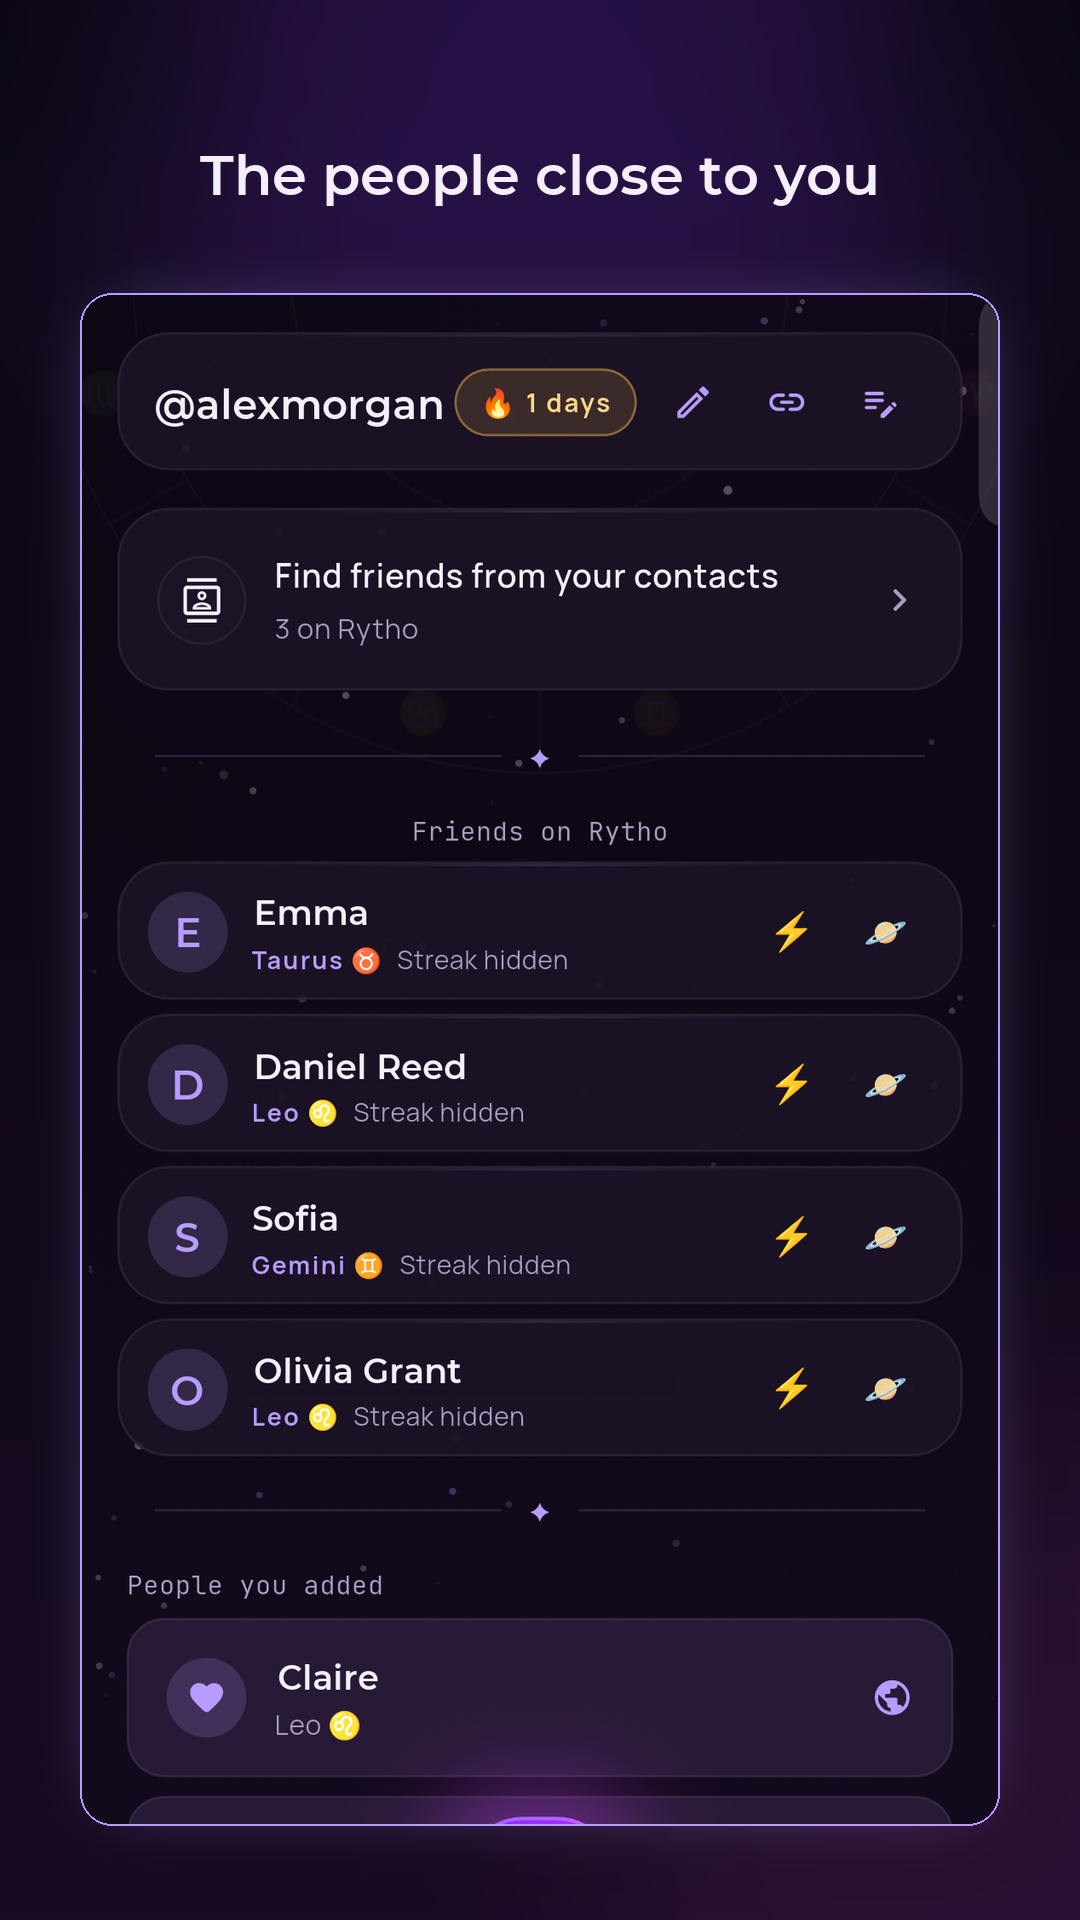
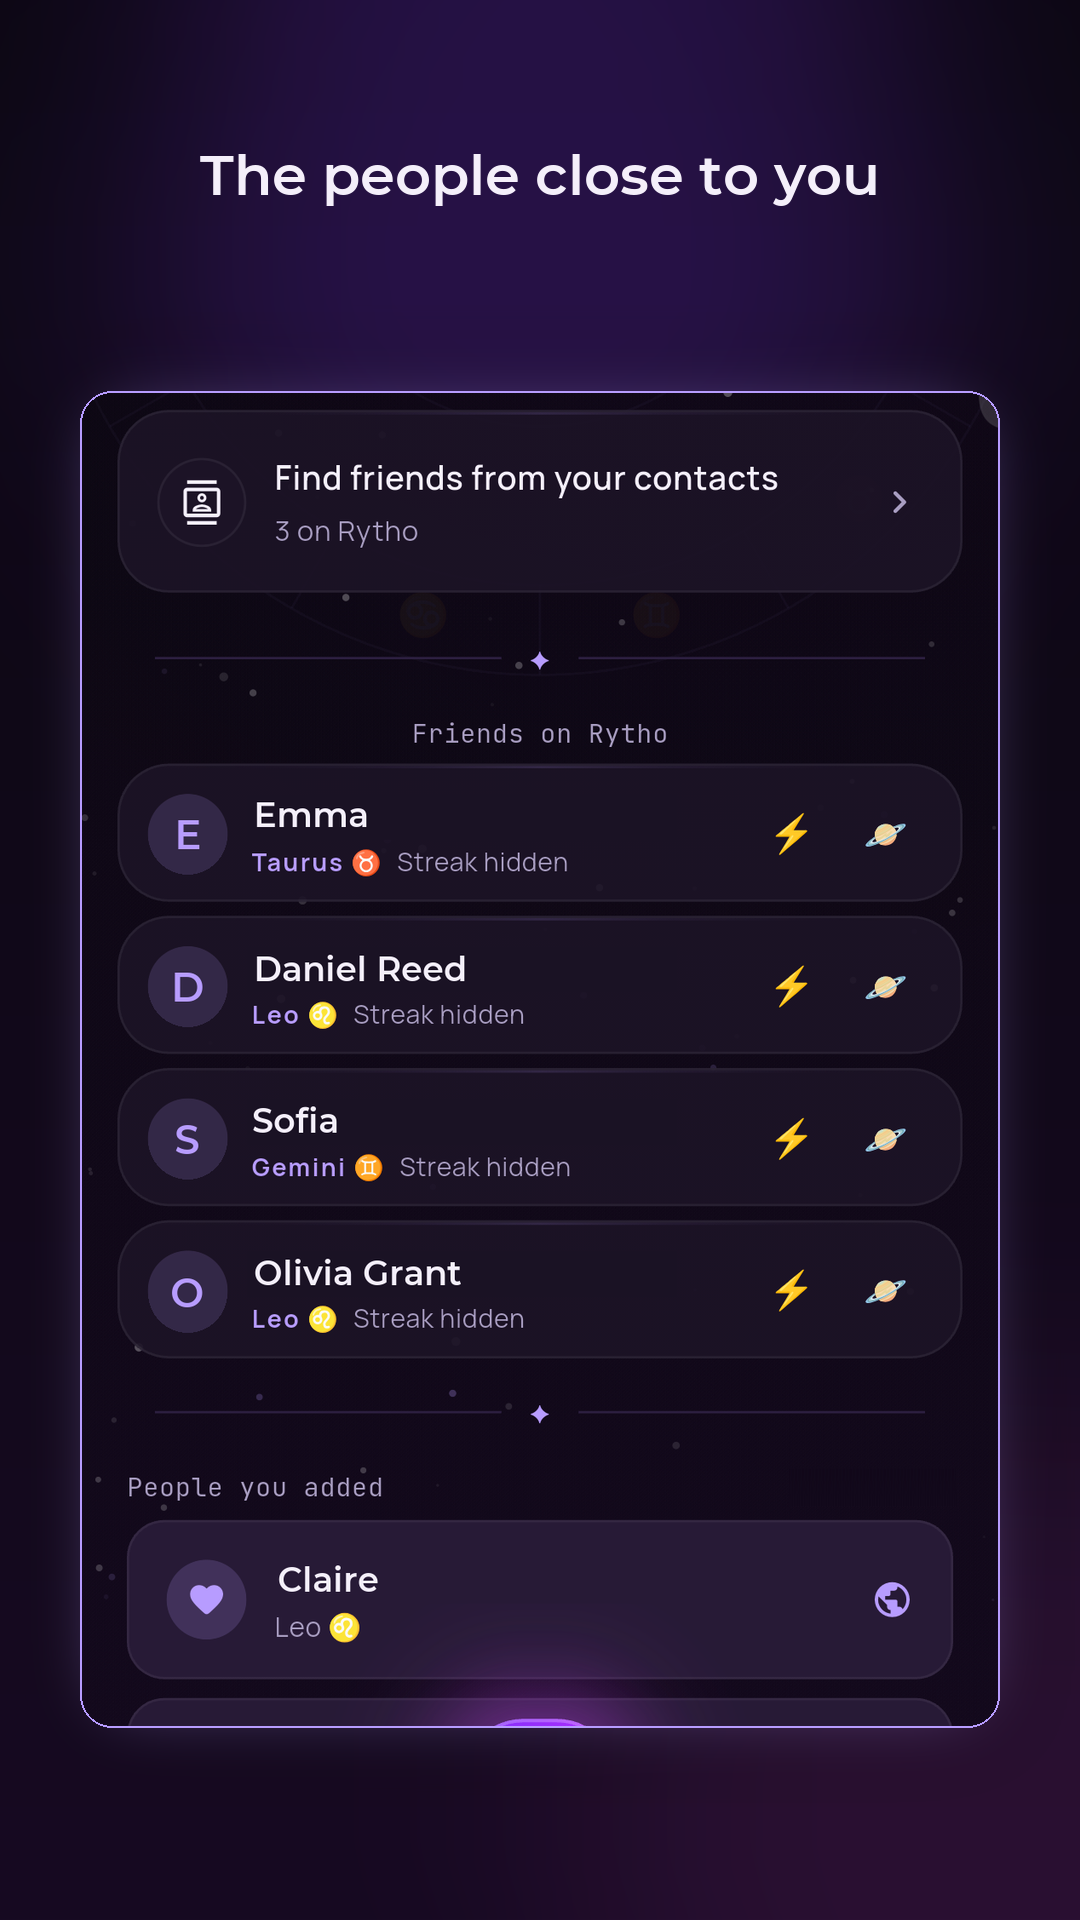
Magaza karesindeki "1 days" kadrajla cikarildi; bayat kareler kayda gecti
Karsi-denetim, ICU plural duzeltmesinin magaza karesine YANSIMADIGINI
yakaladi: store/play/shot-4-circle.png en ustteki seri rozetinde
"🔥 1 days" yaziyor ve bu, listeyi acan herkesin gordugu ilk yer.

Kok neden yapisal: bu kareler 7 Eylul'de cekilmis ham CIHAZ
yakalamalarindan uretiliyor, yani metin piksele gomulu. Kompoziti
yeniden uretmek duzeltmiyor; kodu duzeltmek de duzeltmiyor.

Pikseli elle duzenlemedim -- magaza karesi gercek bir yakalama olmali ve
metni sonradan resme yazmak savunulamaz. Bunun yerine KADRAJ degisti:
kirpim 240'tan 470'e indi, hatali rozeti tasiyan kullanici adi karti
cerceve disinda kaldi ve karenin asil konusu (arkadas listesi) one
cikti. Kirpim gerekcesiyle birlikte betige yazildi.

Ayni denetimde ikinci bayat kare bulundu: shot-1-sky.png'de
"In your sky today ✦ Nearest exactness: September…" sagdan kirpiliyor.
O kusur da kodda coktan kapali (widgets/common.dart SectionHeader artik
Row+Spacer degil Wrap+spaceBetween) ama kare eski hali gosteriyor ve
kadrajla kurtarilamiyor: kirpilan satir telefon cercevesinin ICINDE.
Cihaz su an bagli degil (adb bos), dolayisiyla yeni yakalama
yapilamiyor -- store-launch.md'ye tablo olarak borc yazildi ve sonraki
AAB bir cihaza kurulunca izlenecek adimlar da orada.

diff --git a/apps/mobile/test/zzz_probe_test.dart b/apps/mobile/test/zzz_probe_test.dart
@@ -1,0 +1,27 @@
+// GECICI sonda: `flutter test` varlik paketini kuruyor mu?
+import 'package:flutter/material.dart';
+import 'package:flutter_test/flutter_test.dart';
+import 'package:rytho/widgets/cosmic_scaffold.dart';
+
+void main() {
+  testWidgets('Image.asset testte yuklenebiliyor', (tester) async {
+    await tester.pumpWidget(MaterialApp(
+      home: Builder(
+        builder: (context) => MediaQuery(
+          data: MediaQuery.of(context).copyWith(disableAnimations: true),
+          child: CosmicScaffold(
+            body: Center(
+              child: Image.asset('assets/brand/rytho_logo_512.png',
+                  width: 72, height: 72),
+            ),
+          ),
+        ),
+      ),
+    ));
+    await tester.pump();
+    await tester.runAsync(() => Future<void>.delayed(
+        const Duration(milliseconds: 300)));
+    await tester.pump();
+    expect(find.byType(Image), findsOneWidget);
+  });
+}

diff --git a/infra/store-screenshots.py b/infra/store-screenshots.py
@@ -57,7 +57,16 @@ if __name__=="__main__":
         ("01-sky-anonim.png",    (0,100,1080,1280), "Today, from your own chart", "shot-1-sky.png"),
         ("02-atlas.png",         (0,300,1080,1440), "Your birth chart, computed", "shot-2-chart.png"),
         ("03-gokyuzu.png",       (0,240,1080,1880), "The sky right now",          "shot-3-live.png"),
-        ("04-cevrem-anonim.png", (0,240,1080,2040), "The people close to you",    "shot-4-circle.png"),
+        # Kadraj 240'tan 470'e indi (2026-09-18). Ust kenardaki kullanici adi
+        # karti seri rozetini tasiyordu ve o rozet "1 days" yaziyordu: Ingilizce
+        # ARB'de streakDays duz "{count} days"ti, tekil dali yoktu. Hata ICU
+        # plural'a gecilerek kodda duzeldi ama BU KARE ham cihaz yakalamasi,
+        # yani metin piksele gomulu -- kompoziti yeniden uretmek duzeltmiyor.
+        # Pikseli ELLE DUZENLEMEK secenek degil: magaza karesi gercek bir
+        # yakalama olmali. Cozum cerceveleme: rozet kadraj disinda kaliyor ve
+        # karenin asil konusu (arkadas listesi) one cikiyor. Duzeltilmis
+        # buildle yeni cihaz yakalamasi alindiginda 240'a donulebilir.
+        ("04-cevrem-anonim.png", (0,470,1080,2040), "The people close to you",    "shot-4-circle.png"),
         ("05-sohbet-anonim.png", (0,130,1080,1812), "It knows your chart",        "shot-5-chat.png"),
     ]:
         p=kare(ham,kirp,bas,cik)

diff --git a/docs/store-launch.md b/docs/store-launch.md
@@ -282,6 +282,26 @@ Yazı tipi Montserrat (Sora'nın geometrik karşılığı — Sora kurulu değil
 telefon ekran görüntüsü 1080×2400, yani **9:20** — olduğu gibi yüklenirse
 REDDEDİLİR. Ham kareler 1080×1920 zemine oturtulmalı.
 
+**⚠ Ekran görüntüleri BAYAT olabilir (2026-09-18 denetimi).** `store/play/`
+altındaki beş kare 7 Eylül'de çekilmiş ham CİHAZ yakalamalarından üretiliyor
+(`store/play/raw/`), yani ekrandaki metin piksele gömülü: koddaki bir metin
+düzeltmesi kompozit yeniden üretilse bile kareye YANSIMAZ. Bugüne kadar iki
+kare yakalandıktan sonra düzeltilen bir kusuru gösteriyordu:
+
+| Kare | Gösterdiği kusur | Durum |
+|---|---|---|
+| `shot-4-circle.png` | seri rozeti "🔥 **1 days**" (İngilizce ARB'de `streakDays` düz `{count} days`ti) | Kod ICU plural'a geçti. Kare KADRAJLA düzeltildi: kırpım 240→470, rozet çerçeve dışında kaldı ve asıl konu (arkadaş listesi) öne çıktı. |
+| `shot-1-sky.png` | "In your sky today ✦ Nearest exactness: September…" sağdan KIRPILIYOR | Kod düzeltildi (`widgets/common.dart` `SectionHeader` artık `Row`+`Spacer` değil `Wrap`+`spaceBetween`). Kare hâlâ eski hâli gösteriyor; kadrajla kurtarılamaz çünkü kırpılan satır telefon çerçevesinin İÇİNDE. **Yeni cihaz yakalaması gerekiyor.** |
+
+Kural: **piksel ELLE DÜZENLENMEZ** — mağaza karesi gerçek bir yakalama
+olmalı; metni sonradan resme yazmak savunulamaz. Çare ya kadraj (kusur
+çerçeve dışına alınabiliyorsa) ya da yeniden yakalama.
+
+Sonraki AAB bir cihaza kurulduğunda: `store/play/raw/` kareleri yeniden
+çekilir (`adb shell screenrecord`/`screencap`, Git Bash'te
+`MSYS_NO_PATHCONV=1`), sonra `python infra/store-screenshots.py` koşulur ve
+`shot-4`'ün kırpımı 470'ten 240'a geri alınabilir.
+
 ### Google Play
 
 - Kategori: **Yaşam Tarzı** (KL-turu kararı — kategori standardı;
